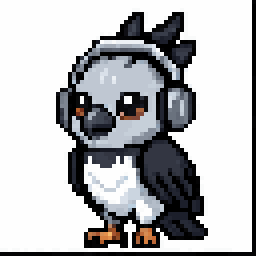
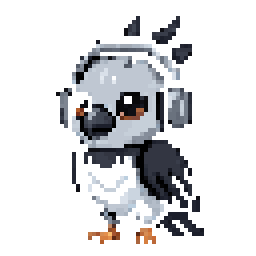
fix: remove mascot background + add idle/blink animation
- Flood-fill background removal from mascot (white + dark edges)
- Regenerated all mascot sizes (64-1024px) with transparency
- Generated 16-frame idle animation via PixelLab animate-with-text-v2
- Generated 16-frame blink animation
- Mascot component now animates: idle loop with periodic blinks
- Added animated prop (default true) for static fallback
- All frames have transparent backgrounds

Changed region(s): [[0.0, 0.0, 1.0, 1.0], [0.2812, 0.2188, 0.3125, 0.2812], [0.7188, 0.4688, 0.75, 0.5]]

diff --git a/src/components/Mascot.tsx b/src/components/Mascot.tsx
@@ -1,13 +1,58 @@
-import Image from 'next/image';
+'use client';
 
-export function Mascot({ className = 'w-12 h-12' }: { className?: string }) {
+import Image from 'next/image';
+import { useState, useEffect, useCallback } from 'react';
+
+const IDLE_FRAMES = Array.from({ length: 16 }, (_, i) =>
+  `/assets/animation/harpia_idle_${String(i + 1).padStart(2, '0')}.png`
+);
+
+const BLINK_FRAMES = Array.from({ length: 16 }, (_, i) =>
+  `/assets/animation/harpia_blink_${String(i + 1).padStart(2, '0')}.png`
+);
+
+const FRAME_MS = 150;
+const BLINK_INTERVAL_MS = 4000;
+
+export function Mascot({ className = 'w-12 h-12', animated = true }: { className?: string; animated?: boolean }) {
+  const [frame, setFrame] = useState(0);
+  const [isBlinking, setIsBlinking] = useState(false);
+
+  const frames = isBlinking ? BLINK_FRAMES : IDLE_FRAMES;
+
+  // Cycle through frames
+  useEffect(() => {
+    if (!animated) return;
+    const id = setInterval(() => {
+      setFrame((f) => (f + 1) % 16);
+    }, FRAME_MS);
+    return () => clearInterval(id);
+  }, [animated]);
+
+  // Trigger blink every ~4s
+  useEffect(() => {
+    if (!animated) return;
+    const id = setInterval(() => {
+      setIsBlinking(true);
+      setFrame(0);
+      setTimeout(() => {
+        setIsBlinking(false);
+        setFrame(0);
+      }, FRAME_MS * 16);
+    }, BLINK_INTERVAL_MS);
+    return () => clearInterval(id);
+  }, [animated]);
+
+  const src = animated ? frames[frame] : '/assets/harpia_mascot_1024.png';
+
   return (
     <Image
-      src="/assets/harpia_mascot_1024.png"
+      src={src}
       alt="HarpIA - Mascota de IA sin misterios"
-      width={48}
-      height={48}
+      width={64}
+      height={64}
       className={className}
+      unoptimized
     />
   );
 }
